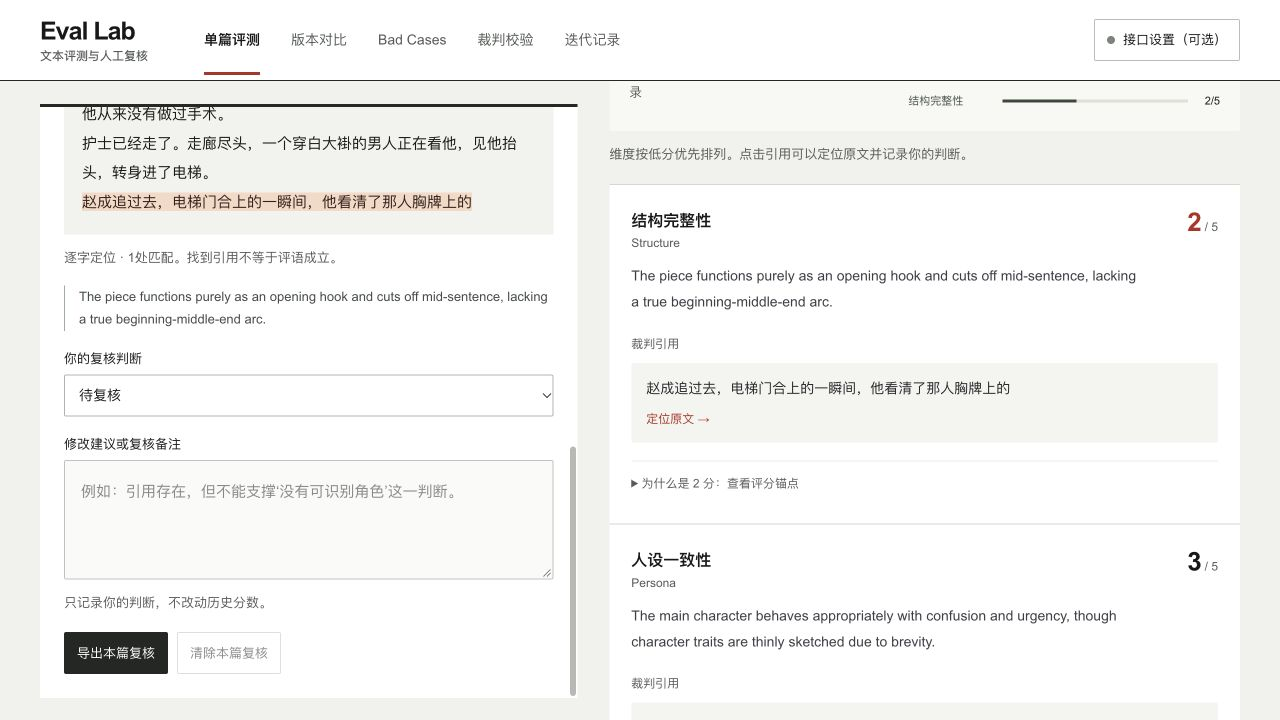
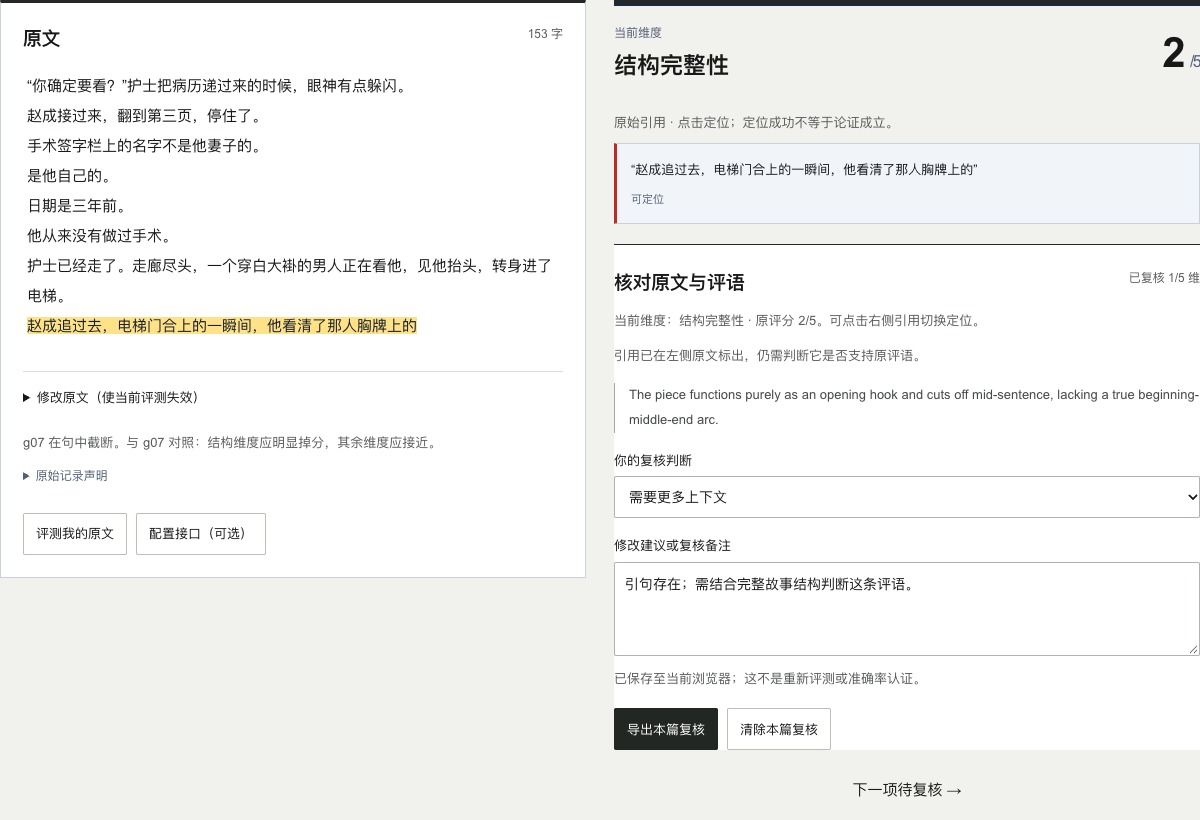
fix(eval): clarify historical examples and restore drafts through effect events

diff --git a/src/app/page.tsx b/src/app/page.tsx
@@ -1,5 +1,5 @@
 "use client";
-import { useEffect, useRef, useState, useSyncExternalStore } from "react";
+import { useEffect, useEffectEvent, useRef, useState, useSyncExternalStore } from "react";
 import Link from "next/link";
 import { SafetyCard } from "@/components/DimensionCard";
 import { EvidenceReview } from "@/components/EvidenceReview";
@@ -33,7 +33,18 @@ function EvaluateWorkspace({initialQuery}:{initialQuery:string}){
   storeReviews(mergeImportedReviews(currentReviews(),record));
   try{localStorage.setItem(EXTERNAL_STORAGE,JSON.stringify({version:1,recordKey:record.key,sourceText:record.sourceText,originalResult:record.originalResult,reviews:[]}));noticeSet(restored?'已恢复上次导入材料；本机复核独立保留。':'已导入，原始评分与评语完整保留；外部声明未经认证。');}catch{noticeSet('本机保存不可用，材料仅留本页，仍可复核与导出。');}
  }
- useEffect(()=>{let active=true;if(!params.has('sample')){try{const raw=localStorage.getItem(EXTERNAL_STORAGE);if(raw)importedRecord(raw,'本机导入草稿').then(r=>{if(active)importRecord(r,true);}).catch(()=>{if(active)noticeSet('上次导入草稿无法恢复，未覆盖保存内容。');});}catch{noticeSet('存储不可用，仍可导入、复核与导出。');}}return()=>{active=false;request.current?.abort();};},[]); // Restore once; explicit history links always win.
+ // Restoring browser storage is an external event. Dimension changes must not restart it.
+ const restoreRecord=useEffectEvent((record:ImportRecord)=>importRecord(record,true));
+ useEffect(()=>{
+  let active=true;
+  if(!new URLSearchParams(initialQuery).has('sample')){
+   Promise.resolve().then(()=>localStorage.getItem(EXTERNAL_STORAGE))
+    .then(raw=>raw?importedRecord(raw,'本机导入草稿'):null)
+    .then(record=>{if(active&&record)restoreRecord(record);})
+    .catch(()=>{if(active)noticeSet('上次导入草稿未能恢复；保存内容未被覆盖，仍可重新导入或继续浏览。');});
+  }
+  return()=>{active=false;request.current?.abort();};
+ },[initialQuery]); // Explicit history links always win over the saved import.
  useEffect(()=>()=>request.current?.abort(),[settings.baseUrl,settings.model,settings.apiKey]);
  function showSample(id:string,index=0){const item=replayItem(id),r=item.runs[index]??item.runs[0];sampleSet(item.id);runSet(index);textSet(item.text);resultSet(r);originSet('history');externalSet('');quoteSet(r.dimensions.find(d=>d.id===dimension)?.evidence[0]??'');errorSet(null);noticeSet('历史记录原分不变；复核意见单独保存。');}
  function chooseDimension(id:ScoredDimensionId){dimSet(id);quoteSet(result?.dimensions.find(d=>d.id===id)?.evidence[0]??'');}
@@ -48,7 +59,7 @@ function EvaluateWorkspace({initialQuery}:{initialQuery:string}){
  return <>
  <div className="eval-intro"><h1>文本评测与复核</h1><p>导入自己的原文与评分，逐条核对证据，带走一份可追溯的复核报告。</p></div>
  <ImportPanel disabled={busy} onImport={r=>importRecord(r)}/>
- <div className="replay-selects history-toolbar"><label className="replay-picker">历史样本<select aria-label="选择历史样本" disabled={busy} value={sampleId} onChange={e=>showSample(e.target.value)}>{REPLAY_ITEMS.map(i=><option key={i.id} value={i.id}>{i.label}</option>)}</select></label><label className="replay-picker">历史运行<select aria-label="选择历史运行" disabled={busy} value={runIndex} onChange={e=>showSample(sampleId,Number(e.target.value))}>{replayItem(sampleId).runs.map((_,i)=><option key={i} value={i}>第{i+1}次记录</option>)}</select></label><button disabled={busy} onClick={()=>showSample(sampleId,runIndex)}>载入所选历史记录</button><Link href={`/compare/?sample=${sampleId}&dimension=${dimension}`}>查看版本比较 →</Link></div>
+ <div className="replay-selects history-toolbar"><label className="replay-picker">历史样本<select aria-label="选择历史样本" disabled={busy} value={sampleId} onChange={e=>showSample(e.target.value)}>{REPLAY_ITEMS.map(i=><option key={i.id} value={i.id}>{i.label}</option>)}</select></label><label className="replay-picker">历史运行<select aria-label="选择历史运行" disabled={busy} value={runIndex} onChange={e=>showSample(sampleId,Number(e.target.value))}>{replayItem(sampleId).runs.map((_,i)=><option key={i} value={i}>第{i+1}次记录</option>)}</select></label><button disabled={busy} onClick={()=>showSample(sampleId,runIndex)}>载入所选历史记录</button><Link href={`/compare/?sample=${sampleId}&dimension=${dimension}`} title={origin==='history'?undefined:'历史示例不包含当前材料，不会比较当前导入结果。'}>{origin==='history'?'查看版本比较 →':'查看历史对照示例 →'}</Link></div>
  <div className="eval-summary"><span><b>{sourceLabel}</b>{result&&<> · 原始均分 {result.overall.toFixed(2)}/5</>}</span><span>已复核 {reviewed}/5 · 存疑 {disputed} · 待补上下文 {context}</span></div>
  {notice&&<p className="replay-note" role="status">{notice}</p>}<ErrorBanner message={error}/>
  {result&&<div className="dimension-nav" role="group" aria-label="当前复核维度">{SCORED_DIMENSIONS.map(id=>{const d=result.dimensions.find(d=>d.id===id)!,v=mine.find(r=>r.dimension===id);return <button key={id} aria-pressed={dimension===id} onClick={()=>chooseDimension(id)}><span>{DIMENSIONS[id].labelZh}</span><b>{d.score}/5</b><small>{REVIEW_STATES[v?.state??'unreviewed']}</small></button>;})}</div>}
